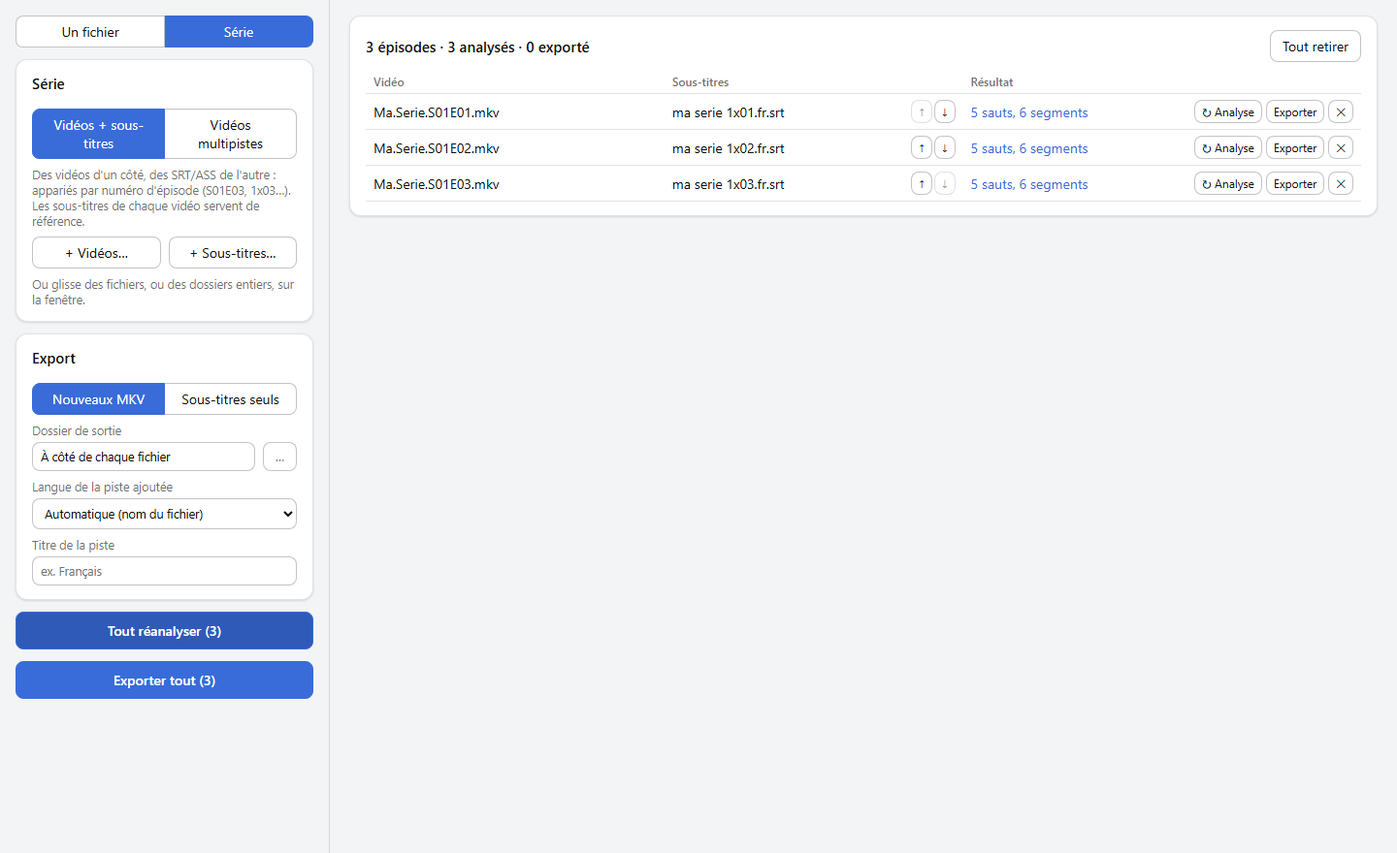
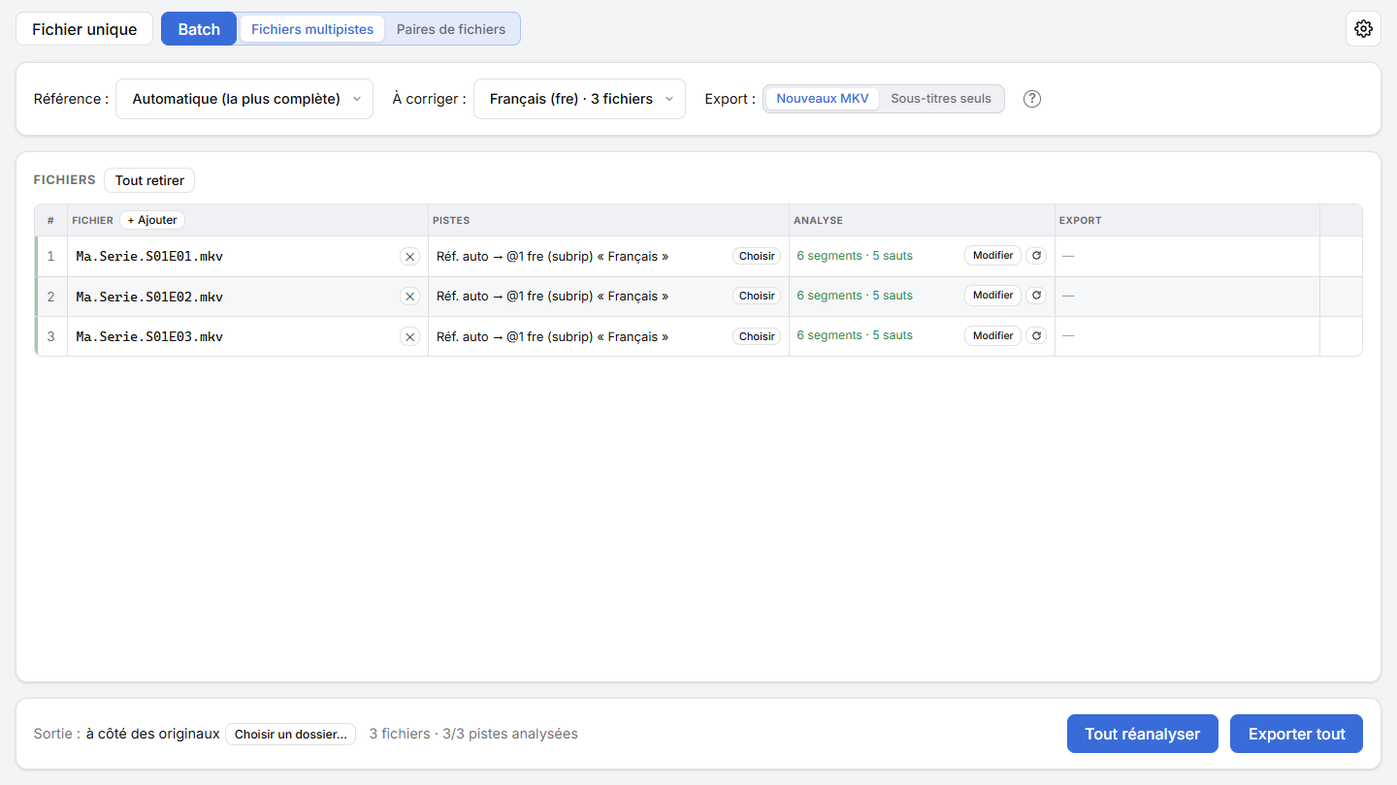
docs: the guides and READMEs follow the new interface (Fichier unique / Batch and its sub-modes, tracks table, Ajouter des sous-titres, save dialog export, Choisir, segment colors and confidence gauge, row status, Options); screenshots retaken on a neutral demo series, the batch one now in the guide

diff --git a/docs/guide.md b/docs/guide.md
@@ -12,7 +12,8 @@ This guide explains how to use Bobine Subs, from opening a video to exporting, f
 4. [Correcting the segments by hand](#correcting-the-segments-by-hand)
 5. [Exporting](#exporting)
 6. [A whole series](#a-whole-series)
-7. [FAQ](#faq)
+7. [Options](#options)
+8. [FAQ](#faq)
 
 ## Words to know
 
@@ -28,69 +29,92 @@ This guide explains how to use Bobine Subs, from opening a video to exporting, f
 
 ## One file at a time
 
-That's the **Un fichier** mode, top left.
+This is the **Fichier unique** (single file) mode, top left.
 
-1. **Open the video** with *Ouvrir un fichier…*, or drop it on the window.
-   - **Reference track** (*Piste de référence*): *Automatique* picks the fullest track, leaving forced tracks out. You can force one. Image subtitles (Blu-ray, DVD) can be a reference.
-   - A reference can also be a well-timed SRT/ASS file, if that's all you have.
-2. **Pick the subtitles to fix**:
-   - *Piste de ce fichier*: another track of the same video (picked for you when the video holds two);
-   - *Autre fichier*: an SRT/ASS file, or another video one of whose tracks will be used. Dropping an SRT/ASS file on the window does the same.
-3. **Analyze** (*Analyser*): a few seconds. The *Journal* shows progress, *Annuler* stops it.
+1. **Open the video** with "Ouvrir un fichier" (open a file), or drop it on the window. The **Pistes** (tracks) panel lists its subtitle tracks (hover a row to see its title; **(F)** marks forced subtitles). A reference can also be a well-timed SRT/ASS file, if that's all you have.
+2. **Tick the reference** in the **Réf.** column: one track is ticked from the start (a full track rather than a forced one, text rather than image). Image subtitles (Blu-ray, DVD) can be a reference.
+3. **Tick the subtitles to fix** in the **À corriger** column: another track of the same video (ticked from the start when the video holds two), or a separate file, added with "**+ Ajouter des sous-titres**" (add subtitles: an SRT/ASS, or another video whose track will be used). Dropping an SRT/ASS on the window does the same.
+4. **Analyser** (analyze): a few seconds. The **Journal** (log) shows how it's going, and "Annuler" (cancel) stops it.
 
 ## Reading the result
 
-- **At the top**, the summary: "constant offset of −1.060 s" or "5 jumps, 6 segments", a **drift** if any (*cible accélérée (23,976 -> 25 i/s, PAL)*: target sped up), and the reference used.
-- **The curve** shows the offset along the video, one line per segment. The dashes under it show where lines are: the reference's above, the corrected ones below. An orange segment is unreliable.
-- **The close-up**, under the curve, shows 10 s to 2 min of the video on three rows:
-  - *Référence*: the reference's lines, with their text;
-  - *Avant*: the subtitles to fix, as they are;
-  - *Après*: the same once corrected.
+On the right, the analysis panel is titled with the corrected track and its reference ("Piste @1 (fre) · référence @0 (eng)").
 
-  When all is well, each line of the *Après* row sits in front of the reference line saying the same thing. Click the curve to move the close-up, or use *Saut précédent / suivant* to visit each jump. Hover a line for its full text and times.
-- **The segment table** gives each one's start and end, offset, number of lines and confidence.
-- "*sans équivalent*" counts lines with no reference line in front of them: a line the translator added, a tag like `[FRENCH]`, a non-dialogue line (`[Music]`, lyrics…). They're retimed anyway, with their segment.
+- **At the top**, the summary: "Décalage constant de −1,060 s" (constant offset) or "6 segments · 5 sauts" (jumps), a **drift** if any ("Dérive : 23,976 -> 25 i/s"), and the line counts.
+- **The curve** shows the offset along the video, one line per segment: **blue** for a constant offset, **orange** for a drift, **dashed** (on a reddish band) for an unreliable segment. The legend is under the curve. The dashes below it show where the lines are: the reference's above, the corrected ones below.
+- **The close-up**, under the curve, shows 10 s to 2 min of the video on three rows:
+  - **Référence**: the reference's lines, with their text;
+  - **Avant** (before): the subtitles to fix, as they are;
+  - **Après** (after): the same once corrected.
+
+  If all is well, each line of the "Après" row lands in front of the reference line that says the same thing. Click the curve to move the close-up, or use "Aller à : Saut précédent / suivant" (previous / next jump) to look at each jump. Hover a line to read its full text and times.
+- **The segments table** gives each one's start and end, its offset (in orange for a drift, from the segment's start to its end), its line count and its **confidence**, as a gauge: green when the segment is reliable, red with ⚠ when it's worth checking.
+- "**sans équivalent**" (no counterpart) counts the lines with no line in front of them in the reference: a line added by the translator, a tag like `[FRENCH]`, a non-dialogue line (`[Music]`, lyrics…). They're retimed anyway, with their segment.
 
 ## Correcting the segments by hand
 
-*✎ Modifier les segments* opens the editor, for when the detection got something wrong. Everything you do there shows at once in the close-up.
+"Modifier les segments" (edit the segments) opens the editor ("Corriger manuellement les segments"), for when the detection got something wrong. Everything you do there shows at once in the close-up.
 
 - **Drag a segment** up or down to change its offset.
 - **Drag a handle ●** to move the boundary between two segments.
-- **Split**: double-click the curve, or *✂ Couper ici* to split at the close-up's centre.
-- **Align** (*Aligner*): the fastest way when a passage is visibly off. In the close-up, click a line of the *Après* row, then the reference line that says the same thing: its whole segment shifts so they start together.
-- **The table** lets you type a boundary (`10:02.82`) or an offset in milliseconds. A drift has two offsets, at the segment's start and end.
-- **Remove** (*Retirer*) deletes a segment (a false detection): its neighbour stretches over its time, with its own offset. *Retirer les segments peu fiables* does it for each ⚠ segment.
-- **Undo / Redo** (Ctrl+Z / Ctrl+Y) and *Réinitialiser* (back to the detection).
+- **Split**: double-click the curve, or "✂ Couper ici" (cut here) to split at the close-up's center.
+- **Align**: the fastest when you can see a passage is off. In the close-up, click a line of the "Après" row, then the reference line that says the same thing: its whole segment shifts so they start together.
+- **The table** lets you type a boundary (`10:02.82`) or an offset in milliseconds, at the segment's start ("Décal. début") and end ("Décal. fin"): two different values make it a drift.
+- **Retirer** (remove) deletes a segment (a false detection): its neighbour stretches over it, with its own offset. "Retirer les segments peu fiables", at the bottom, does it for every ⚠ segment.
+- **Défaire / Refaire** (undo / redo, Ctrl+Z / Ctrl+Y) and **Réinitialiser** (back to the segments as opened), bottom left.
 
-*Enregistrer* keeps your segments: the result then reads *Modifié à la main*, and the export applies them as they are, without detecting anything again. *Annuler* or Escape closes the editor, asking first if you changed something.
+"Enregistrer" (save) keeps your segments: the result is then marked "Modifié à la main" (edited by hand), and the export applies them as they are, without detecting anything again. "Annuler" or Esc closes the editor, asking first if you changed something.
 
 ## Exporting
 
-- **New MKV** (*Nouveau MKV*): a copy of the video, nothing re-encoded.
+The **Export** panel, under the tracks, picks what's written:
+
+- **Nouveau MKV** (new MKV): a copy of the video, nothing re-encoded.
   - When the track to fix comes from the video, the corrected track **replaces** the original, in the same place, with the same language and title.
-  - When it comes from a separate file, it's **added**. Its language is guessed from the file name (`Film.fr.srt`, `episode-VF.srt` → French) or picked in the list; you can give it a title and make it the default track.
-- **Subtitles only** (*Sous-titres seuls*): the corrected SRT/ASS file. In ASS, styles, positions and effects stay as they are: only the timing changes.
-- By default the file goes next to the original, named `Film.synced.mkv`; *Parcourir…* to put it elsewhere. The app warns when a file with that name already exists.
-- The original file is never changed. A cancelled export leaves no half-written file behind.
-- Lines removed (that fell before the video's start, or in a scene it doesn't have) are listed once the export is done.
+  - When it comes from a separate file, it's **added**. Its language is the file's (guessed from its name: `Film.fr.srt`, `episode-VF.srt` → French), or picked from the list; you can give it a title and make it the default track.
+- **Sous-titres seuls** (subtitles only): the corrected SRT/ASS file. In ASS, styles, positions and effects are kept as they are: only the times change.
+
+"**Exporter le fichier synchronisé**" (export the synced file) opens the save dialog, with a name suggested next to the original (`Film.synced.mkv`): confirm it, or pick another folder or name. "Contenu de l'export (?)" tells what the file will hold.
+
+- The original file is never changed. A cancelled export leaves no half-written file.
+- Once the export is done, "Ouvrir le dossier" (open the folder) shows the written file, and the lines removed (falling before the video's start, or in a scene it doesn't have) are listed.
 
 ## A whole series
 
-The **Série** mode, top left, handles several episodes at once. Two ways:
+The **Batch** mode, top left, handles several episodes in one go. Clicking it unfolds its two ways of working (the last one used is remembered):
 
-- **Videos + subtitles** (*Vidéos + sous-titres*): add the videos on one side (*+ Vidéos…*), the SRT/ASS files on the other (*+ Sous-titres…*), or drop them, folders included. Each subtitle file is matched to its episode by the **number in its name** (`S01E03`, `1x03`, `E03`, `Episode 3`…), even when the names differ. Files with no common number are matched in order, flagged *ordre*; the ↑↓ arrows swap two rows' subtitles if a match is wrong.
-- **Multi-track videos** (*Vidéos multipistes*): videos that each hold the reference and the track to fix. Pick the **language** of the track to fix; videos without one are flagged.
+- **Fichiers multipistes** (multi-track files): videos that each hold the reference and the track to fix. Pick the **language of the track to fix** in the settings bar ("À corriger :").
+- **Paires de fichiers** (file pairs): on one side the reference videos, on the other what's to fix, one per episode: SRT/ASS files, or videos whose track will be used (picked by language, as above). Each file is matched to its episode by the **number in its name** (`S01E03`, `1x03`, `E03`, `Episode 3`…), even when the names differ. Files with no shared number are matched in order, flagged "ordre"; the ↑ ↓ arrows fix the order of the "À corriger" column.
+
+Add files with "+ Ajouter" at the top of a column, or drop them on the window, folders included (in pairs: on the left half for references, on the right for what's to fix).
+
+In the settings bar:
+
+- **Référence**: "Automatique (la plus complète)" (the most complete), or the reference track's language, for every file;
+- **Export**: "Nouveaux MKV" or "Sous-titres seuls", and in pairs the added track's language and title.
+
+"**Choisir**" (choose), on a row, picks that file's reference and track to fix by hand, when the language rule doesn't fit; the row is then marked "(manuel)", and "Par langue" (by language) goes back to the rule.
 
 Then:
 
-1. *Analyser tout*: one episode after the other. Each row shows its summary, with *⚠ à vérifier* when a segment is unreliable or lines will be removed. Click the summary for the full details and, if needed, to **edit that episode's segments**.
-2. *Exporter tout*, to the chosen output folder, or next to each file:
-   - in another folder, each copy keeps the original's name (`My.Show.S01E03.mkv`) unless that name is taken;
+1. **Analyser tout** (analyze all): one episode after another; those waiting their turn are "En attente". Each row shows its summary, with "⚠ à vérifier" (to check) if a segment is unreliable or lines will be removed. **Modifier** (edit) opens that episode's editor, even while the others are being analyzed; the ↻ icon analyzes that row alone again.
+2. **Exporter tout** (export all), to the **Sortie** (output) picked at the bottom ("à côté des originaux", next to the originals, or "Choisir un dossier…", choose a folder):
+   - in another folder, each copy keeps the original's name (`My.Show.S01E03.mkv`), unless it's taken;
    - next to the originals, it's `My.Show.S01E03.synced.mkv`;
-   - with subtitles only, a separate file keeps its name, and a track taken from a video becomes `Film.fre.srt`, which players load on their own.
+   - in "Sous-titres seuls", a separate file keeps its name, and a track taken from a video becomes `Film.fre.srt`, which players load on their own.
 
-Once everything is done, the buttons become *Tout réanalyser* and *Tout réexporter*; each row also has its own *↻ Analyse* and *↻ Export* buttons.
+   The folder icon, at the end of the row, opens the written file's folder.
+
+A colored bar at the left of each row tells where it stands: blue running, pale blue waiting, pale green analyzed, green exported, red failed. Once everything is analyzed, the button becomes "Tout réanalyser" (analyze everything again, losing the edits made with "Modifier").
+
+<picture>
+  <source media="(prefers-color-scheme: dark)" srcset="screenshots/batch-dark.png">
+  <img src="screenshots/batch-light.png" alt="Batch mode: the Fichiers multipistes / Paires de fichiers drawer, the settings bar, the table of analyzed episodes">
+</picture>
+
+## Options
+
+The ⚙ button, top right, sets the **theme** (the system's, light or dark) and the **update check** at startup.
 
 ## FAQ
 

diff --git a/docs/guide.fr.md b/docs/guide.fr.md
@@ -12,7 +12,8 @@ Ce guide explique comment utiliser Bobine Subs, de l'ouverture d'une vidéo à l
 4. [Corriger les segments à la main](#corriger-les-segments-à-la-main)
 5. [Exporter](#exporter)
 6. [Une série entière](#une-série-entière)
-7. [Questions fréquentes](#questions-fréquentes)
+7. [Options](#options)
+8. [Questions fréquentes](#questions-fréquentes)
 
 ## Les mots à connaître
 
@@ -28,69 +29,92 @@ Ce guide explique comment utiliser Bobine Subs, de l'ouverture d'une vidéo à l
 
 ## Un fichier à la fois
 
-C'est le mode **Un fichier**, en haut à gauche.
+C'est le mode **Fichier unique**, en haut à gauche.
 
-1. **Ouvre la vidéo** avec « Ouvrir un fichier… », ou dépose-la sur la fenêtre.
-   - **Piste de référence** : « Automatique » choisit la piste la plus complète, en laissant de côté les pistes forcées. Tu peux en imposer une. Les sous-titres image (Blu-ray, DVD) peuvent servir de référence.
-   - Une référence peut aussi être un fichier SRT/ASS bien calé, si tu n'as que celui-là.
-2. **Choisis les sous-titres à corriger** :
-   - **Piste de ce fichier** : une autre piste de la même vidéo (choisie d'office quand la vidéo en contient deux) ;
-   - **Autre fichier** : un fichier SRT/ASS, ou une autre vidéo dont on prendra une piste. Déposer un SRT/ASS sur la fenêtre fait la même chose.
-3. **Analyser** : quelques secondes. Le **Journal** montre où en est l'analyse, et « Annuler » l'arrête.
+1. **Ouvre la vidéo** avec « Ouvrir un fichier », ou dépose-la sur la fenêtre. Le panneau **Pistes** liste ses pistes de sous-titres (survole une ligne pour voir son titre ; **(F)** signale des sous-titres forcés). Une référence peut aussi être un fichier SRT/ASS bien calé, si tu n'as que celui-là.
+2. **Coche la référence** dans la colonne **Réf.** : une piste est cochée d'office (une piste complète plutôt que forcée, en texte plutôt qu'en image). Les sous-titres image (Blu-ray, DVD) peuvent servir de référence.
+3. **Coche les sous-titres à corriger** dans la colonne **À corriger** : une autre piste de la même vidéo (cochée d'office quand la vidéo en contient deux), ou un fichier à part, ajouté avec « **+ Ajouter des sous-titres** » (un SRT/ASS, ou une autre vidéo dont on prendra une piste). Déposer un SRT/ASS sur la fenêtre fait la même chose.
+4. **Analyser** : quelques secondes. Le **Journal** montre où en est l'analyse, et « Annuler » l'arrête.
 
 ## Lire le résultat
 
-- **En haut**, le résumé : « Décalage constant de −1,060 s » ou « 5 sauts, 6 segments », une éventuelle **dérive** (« cible accélérée (23,976 -> 25 i/s, PAL) »), et la référence choisie.
-- **La courbe** montre le décalage le long de la vidéo, un trait par segment. Les tirets sous la courbe montrent où sont les répliques : celles de la référence au-dessus, celles corrigées en dessous. Un segment orange est peu fiable.
+À droite, le panneau d'analyse a pour titre la piste corrigée et sa référence (« Piste @1 (fre) · référence @0 (eng) »).
+
+- **En haut**, le résumé : « Décalage constant de −1,060 s » ou « 6 segments · 5 sauts », une éventuelle **dérive** (« Dérive : 23,976 -> 25 i/s »), et le nombre de répliques.
+- **La courbe** montre le décalage le long de la vidéo, un trait par segment : **bleu** pour un décalage constant, **orange** pour une dérive, **en pointillés** (sur fond rougeâtre) pour un segment peu fiable. La légende est sous la courbe. Les tirets en dessous montrent où sont les répliques : celles de la référence au-dessus, celles corrigées en dessous.
 - **La loupe**, sous la courbe, montre 10 s à 2 min de la vidéo sur trois lignes :
   - **Référence** : les répliques de la référence, avec leur texte ;
   - **Avant** : les sous-titres à corriger, tels qu'ils sont ;
   - **Après** : les mêmes une fois corrigés.
 
-  Si tout va bien, chaque réplique de la ligne « Après » tombe en face de la réplique de référence qui dit la même chose. Clique sur la courbe pour déplacer la loupe, ou utilise « Saut précédent / suivant » pour aller voir chaque saut. Passe la souris sur une réplique pour lire son texte complet et ses horaires.
-- **Le tableau des segments** donne, pour chacun, son début et sa fin, son décalage, son nombre de répliques et sa confiance.
+  Si tout va bien, chaque réplique de la ligne « Après » tombe en face de la réplique de référence qui dit la même chose. Clique sur la courbe pour déplacer la loupe, ou utilise « Aller à : Saut précédent / suivant » pour aller voir chaque saut. Passe la souris sur une réplique pour lire son texte complet et ses horaires.
+- **Le tableau des segments** donne, pour chacun, son début et sa fin, son décalage (en orange pour une dérive, du début à la fin du segment), son nombre de répliques et sa **confiance**, en jauge : verte si le segment est fiable, rouge avec ⚠ s'il est à vérifier.
 - « **sans équivalent** » compte les répliques qui n'ont pas de réplique en face dans la référence : une ligne ajoutée par le traducteur, une mention comme `[FRENCH]`, une réplique non dialoguée (`[Musique]`, paroles…). Elles sont recalées quand même, avec leur segment.
 
 ## Corriger les segments à la main
 
-« ✎ Modifier les segments » ouvre l'éditeur, quand la détection s'est trompée quelque part. Tout ce que tu y fais se voit aussitôt dans la loupe.
+« Modifier les segments » ouvre l'éditeur (« Corriger manuellement les segments »), quand la détection s'est trompée quelque part. Tout ce que tu y fais se voit aussitôt dans la loupe.
 
 - **Glisser un segment** vers le haut ou le bas change son décalage.
 - **Glisser une poignée ●** déplace la frontière entre deux segments.
 - **Couper** : double-clique sur la courbe, ou « ✂ Couper ici » pour couper au centre de la loupe.
 - **Aligner** : le plus rapide quand on voit qu'un passage est décalé. Dans la loupe, clique une réplique de la ligne « Après », puis la réplique de référence qui dit la même chose : tout son segment se décale pour qu'elles commencent ensemble.
-- **Le tableau** permet de saisir une frontière (`10:02.82`) ou un décalage en millisecondes. Une dérive a deux décalages, au début et à la fin du segment.
-- **Retirer** supprime un segment (une fausse détection) : son voisin s'étend sur sa durée, avec son propre décalage. « Retirer les segments peu fiables » le fait pour chaque segment ⚠.
-- **Défaire / Refaire** (Ctrl+Z / Ctrl+Y) et **Réinitialiser** (revenir à la détection).
+- **Le tableau** permet de saisir une frontière (`10:02.82`) ou un décalage en millisecondes, au début (« Décal. début ») et à la fin (« Décal. fin ») du segment : deux valeurs différentes en font une dérive.
+- **Retirer** supprime un segment (une fausse détection) : son voisin s'étend sur sa durée, avec son propre décalage. « Retirer les segments peu fiables », en bas, le fait pour chaque segment ⚠.
+- **Défaire / Refaire** (Ctrl+Z / Ctrl+Y) et **Réinitialiser** (revenir aux segments de l'ouverture), en bas à gauche.
 
 « Enregistrer » garde tes segments : le résultat porte alors « Modifié à la main », et l'export les applique tels quels, sans rien redétecter. « Annuler » ou Échap ferme l'éditeur, en demandant d'abord si tu as fait des modifications.
 
 ## Exporter
 
+Le panneau **Export**, sous les pistes, choisit ce qui est écrit :
+
 - **Nouveau MKV** : une copie de la vidéo, rien n'est réencodé.
   - Quand la piste à corriger vient de la vidéo, la piste corrigée **remplace** l'originale, à la même place, avec la même langue et le même titre.
-  - Quand elle vient d'un fichier à part, elle est **ajoutée**. Sa langue est devinée d'après le nom du fichier (`Film.fr.srt`, `episode-VF.srt` → français), ou choisie dans la liste ; tu peux lui donner un titre et en faire la piste par défaut.
+  - Quand elle vient d'un fichier à part, elle est **ajoutée**. Sa langue est celle du fichier (devinée d'après son nom : `Film.fr.srt`, `episode-VF.srt` → français), ou choisie dans la liste ; tu peux lui donner un titre et en faire la piste par défaut.
 - **Sous-titres seuls** : le fichier SRT/ASS corrigé. En ASS, styles, positions et effets sont gardés tels quels : seuls les horaires changent.
-- Par défaut, le fichier va à côté de l'original, nommé `Film.synced.mkv` ; « Parcourir… » pour le mettre ailleurs. L'application prévient si un fichier du même nom existe déjà.
+
+« **Exporter le fichier synchronisé** » ouvre la fenêtre d'enregistrement, avec un nom proposé à côté de l'original (`Film.synced.mkv`) : valide-le, ou choisis un autre dossier ou un autre nom. « Contenu de l'export (?) » rappelle ce que contiendra le fichier.
+
 - Le fichier d'origine n'est jamais modifié. Un export annulé ne laisse aucun fichier à moitié écrit.
-- Les répliques retirées (tombées avant le début de la vidéo, ou dans une scène qu'elle n'a pas) sont listées une fois l'export fini.
+- Une fois l'export fini, « Ouvrir le dossier » montre le fichier écrit, et les répliques retirées (tombées avant le début de la vidéo, ou dans une scène qu'elle n'a pas) sont listées.
 
 ## Une série entière
 
-Le mode **Série**, en haut à gauche, traite plusieurs épisodes d'un coup. Deux façons de faire :
+Le mode **Batch**, en haut à gauche, traite plusieurs épisodes d'un coup. Un clic dessus déroule ses deux façons de faire (la dernière utilisée est retenue) :
 
-- **Vidéos + sous-titres** : ajoute les vidéos d'un côté (« + Vidéos… »), les fichiers SRT/ASS de l'autre (« + Sous-titres… »), ou dépose-les, dossiers compris. Chaque fichier de sous-titres est associé à son épisode d'après le **numéro dans son nom** (`S01E03`, `1x03`, `E03`, `Episode 3`…), même si les noms sont différents. Ceux sans numéro commun sont associés dans l'ordre, signalés « ordre » ; les flèches ↑↓ échangent les sous-titres de deux lignes en cas d'erreur.
-- **Vidéos multipistes** : des vidéos contenant chacune la référence et la piste à corriger. Choisis la **langue** de la piste à corriger ; les vidéos qui n'en ont pas sont signalées.
+- **Fichiers multipistes** : des vidéos contenant chacune la référence et la piste à corriger. Choisis dans la barre de réglages la **langue de la piste à corriger** (« À corriger : »).
+- **Paires de fichiers** : d'un côté les vidéos de référence, de l'autre ce qu'il faut corriger, un par épisode : des fichiers SRT/ASS, ou des vidéos dont on prendra une piste (choisie par langue, comme ci-dessus). Chaque fichier est associé à son épisode d'après le **numéro dans son nom** (`S01E03`, `1x03`, `E03`, `Episode 3`…), même si les noms sont différents. Ceux sans numéro commun sont associés dans l'ordre, signalés « ordre » ; les flèches ↑ ↓ corrigent l'ordre de la colonne « À corriger ».
+
+Ajoute les fichiers avec « + Ajouter » en tête de colonne, ou dépose-les sur la fenêtre, dossiers compris (en paires : sur la moitié gauche pour les références, sur la droite pour ce qu'il faut corriger).
+
+Dans la barre de réglages :
+
+- **Référence** : « Automatique (la plus complète) », ou la langue de la piste de référence, pour tous les fichiers ;
+- **Export** : « Nouveaux MKV » ou « Sous-titres seuls », et en paires la langue et le titre de la piste ajoutée.
+
+« **Choisir** », sur une ligne, fixe à la main la référence et la piste à corriger de ce fichier, quand la règle par langue ne convient pas ; la ligne porte alors « (manuel) », et « Par langue » revient à la règle.
 
 Puis :
 
-1. **Analyser tout** : un épisode après l'autre. Chaque ligne affiche son résumé, avec « ⚠ à vérifier » si un segment est peu fiable ou si des répliques seront retirées. Clique le résumé pour voir le détail complet et, au besoin, **modifier les segments** de cet épisode.
-2. **Exporter tout**, dans le dossier de sortie choisi, ou à côté de chaque fichier :
+1. **Analyser tout** : un épisode après l'autre ; ceux qui attendent leur tour sont « En attente ». Chaque ligne affiche son résumé, avec « ⚠ à vérifier » si un segment est peu fiable ou si des répliques seront retirées. **Modifier** ouvre l'éditeur de cet épisode, même pendant que les autres s'analysent ; l'icône ↻ réanalyse cette ligne seule.
+2. **Exporter tout**, selon la **Sortie** choisie en bas (« à côté des originaux », ou « Choisir un dossier… ») :
    - dans un autre dossier, chaque copie garde le nom de l'original (`Ma.Serie.S01E03.mkv`), sauf si ce nom est déjà pris ;
    - à côté des originaux, c'est `Ma.Serie.S01E03.synced.mkv` ;
    - en « Sous-titres seuls », un fichier à part garde son nom, et une piste extraite d'une vidéo devient `Film.fre.srt`, que les lecteurs chargent tout seuls.
 
-Une fois tout fait, les boutons deviennent « Tout réanalyser » et « Tout réexporter » ; chaque ligne a aussi ses boutons « ↻ Analyse » et « ↻ Export ».
+   L'icône de dossier, au bout de la ligne, ouvre le dossier du fichier écrit.
+
+Une barre de couleur à gauche de chaque ligne dit où elle en est : bleue en cours, bleu pâle en attente, vert pâle analysée, verte exportée, rouge en erreur. Une fois tout analysé, le bouton devient « Tout réanalyser » (qui perd les modifications faites avec « Modifier »).
+
+<picture>
+  <source media="(prefers-color-scheme: dark)" srcset="screenshots/batch-dark.png">
+  <img src="screenshots/batch-light.png" alt="Le mode Batch : le tiroir Fichiers multipistes / Paires de fichiers, la barre de réglages, le tableau des épisodes analysés">
+</picture>
+
+## Options
+
+Le bouton ⚙, en haut à droite, règle le **thème** (celui du système, clair ou sombre) et la **vérification des mises à jour** au démarrage.
 
 ## Questions fréquentes
 

diff --git a/README.fr.md b/README.fr.md
@@ -40,7 +40,7 @@ Or la vidéo contient souvent déjà des sous-titres bien calés, dans une autre
 - 👀 **Vérifier avant d'exporter** : la courbe des décalages, et une loupe qui montre côte à côte les répliques de la référence et celles à corriger, avant et après, avec leur texte.
 - ✏ **Corriger à la main si besoin** : glisser un segment ou une frontière, couper, retirer une fausse détection, **aligner** une réplique sur la bonne d'un clic, défaire / refaire.
 - 📦 **Un export propre** : un nouveau MKV où la piste corrigée remplace l'originale ou s'ajoute, sans rien réencoder, ou le fichier de sous-titres seul. Le fichier d'origine n'est jamais modifié.
-- 🗂 **Une série entière en une passe** : des vidéos et leurs fichiers de sous-titres, associés d'après le numéro d'épisode (`S01E03`, `1x03`…), ou des vidéos contenant chacune les deux pistes.
+- 🗂 **Une série entière en une passe** : des vidéos et leurs sous-titres à corriger (fichiers SRT/ASS ou autres vidéos), associés d'après le numéro d'épisode (`S01E03`, `1x03`…), ou des vidéos contenant chacune les deux pistes ; pistes choisies par langue, ou à la main fichier par fichier.
 - 🖱 **Glisser-déposer** de fichiers ou de dossiers entiers, thème clair ou sombre, mises à jour automatiques.
 
 ## Installation
@@ -59,9 +59,9 @@ Rien d'autre à installer : le moteur d'analyse et ffmpeg sont fournis avec l'ap
 
 ## Comment ça marche
 
-1. **Ouvre la vidéo** (ou dépose-la sur la fenêtre) : ses sous-titres bien calés servent de **référence**. Choisis les sous-titres **à corriger** : une autre piste de la même vidéo, ou un fichier SRT/ASS à part.
+1. **Ouvre la vidéo** (ou dépose-la sur la fenêtre) : dans le tableau de ses pistes, coche la **référence** (ses sous-titres bien calés) et les sous-titres **à corriger** : une autre piste de la même vidéo, ou un fichier SRT/ASS à part, ajouté avec « + Ajouter des sous-titres ».
 2. **Analyse** : la courbe montre les segments trouvés. Vérifie dans la loupe que les répliques tombent en face des bonnes, et ajuste les segments à la main si quelque chose cloche.
-3. **Exporte** : un nouveau MKV à côté de l'original (`Film.synced.mkv`), ou les sous-titres seuls.
+3. **Exporte** : un nouveau MKV (proposé à côté de l'original : `Film.synced.mkv`), ou les sous-titres seuls.
 
 📖 Le [guide d'utilisation](docs/guide.fr.md) détaille tout : lire le résultat, l'éditeur de segments, le mode série, les questions fréquentes.
 

diff --git a/README.md b/README.md
@@ -43,7 +43,7 @@ The interface is in French for now.
 - 👀 **Check before exporting**: the offset curve, and a close-up showing the reference's lines next to the ones to fix, before and after, with their text.
 - ✏ **Correct by hand if needed**: drag a segment or a boundary, split, remove a false detection, **align** a line on the right one in one click, undo / redo.
 - 📦 **A clean export**: a new MKV where the corrected track replaces the original or is added, nothing re-encoded, or the subtitle file alone. The original file is never changed.
-- 🗂 **A whole series in one pass**: videos and their subtitle files, matched by episode number (`S01E03`, `1x03`…), or videos that each hold both tracks.
+- 🗂 **A whole series in one pass**: videos and the subtitles to fix (SRT/ASS files or other videos), matched by episode number (`S01E03`, `1x03`…), or videos that each hold both tracks; tracks picked by language, or by hand file by file.
 - 🖱 **Drag and drop** files or whole folders, light or dark theme, automatic updates.
 
 ## Install
@@ -62,9 +62,9 @@ Nothing else to install: the analysis engine and ffmpeg come with the app. When 
 
 ## How it works
 
-1. **Open the video** (or drop it on the window): its well-timed subtitles are the **reference**. Pick the subtitles **to fix**: another track of the same video, or a separate SRT/ASS file.
+1. **Open the video** (or drop it on the window): in its tracks table, tick the **reference** (its well-timed subtitles) and the subtitles **to fix**: another track of the same video, or a separate SRT/ASS file, added with "+ Ajouter des sous-titres".
 2. **Analyze**: the curve shows the segments found. Check in the close-up that lines fall in front of the right ones, and adjust the segments by hand if something's off.
-3. **Export**: a new MKV next to the original (`Film.synced.mkv`), or the subtitles alone.
+3. **Export**: a new MKV (suggested next to the original: `Film.synced.mkv`), or the subtitles alone.
 
 📖 The [user guide](docs/guide.md) covers everything in detail: reading the result, the segment editor, series mode, FAQ.
 
